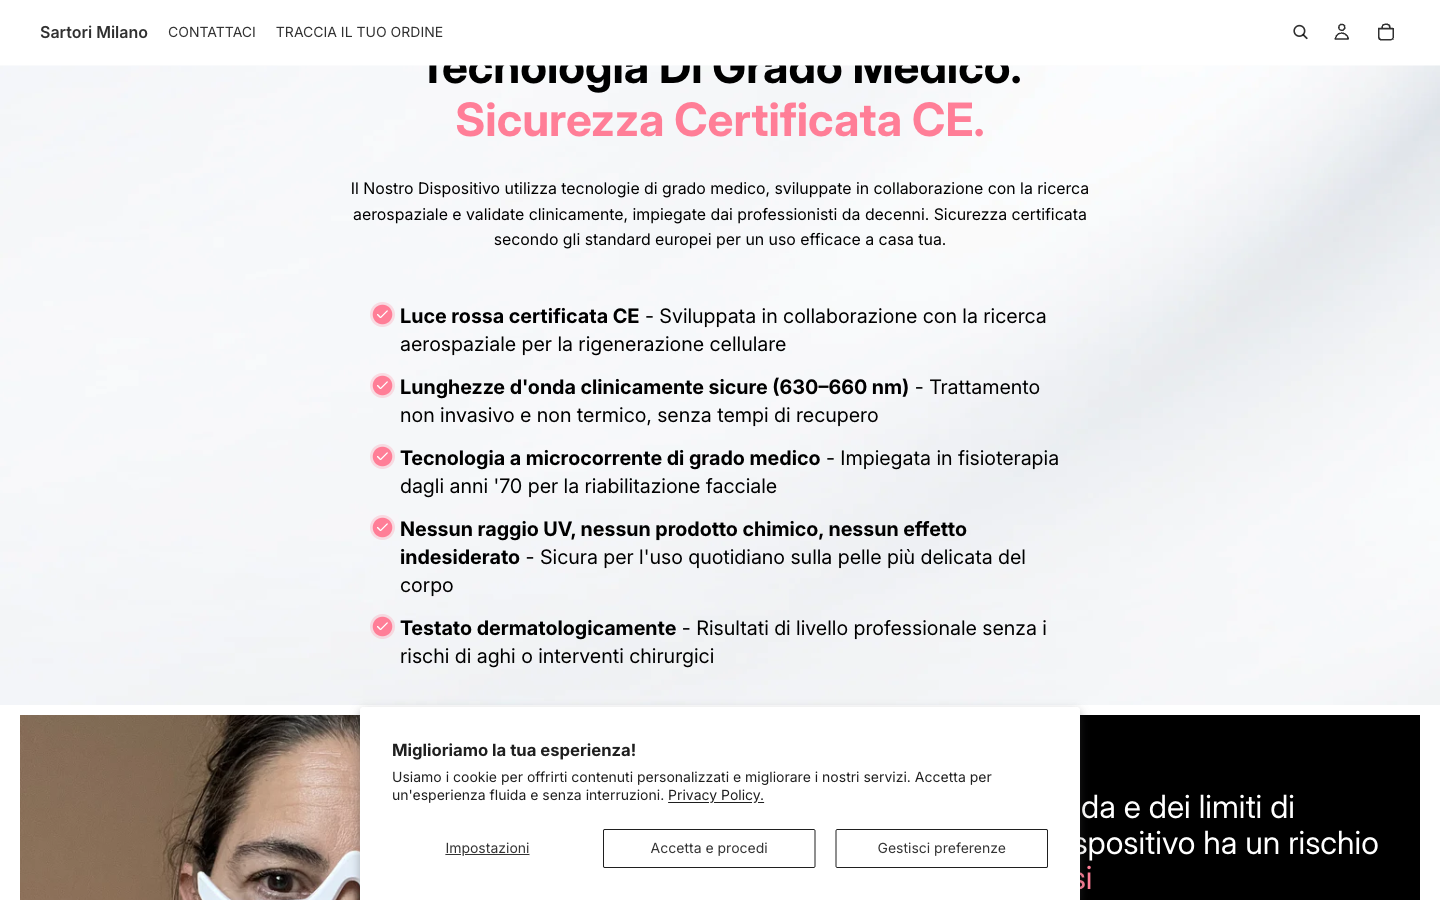
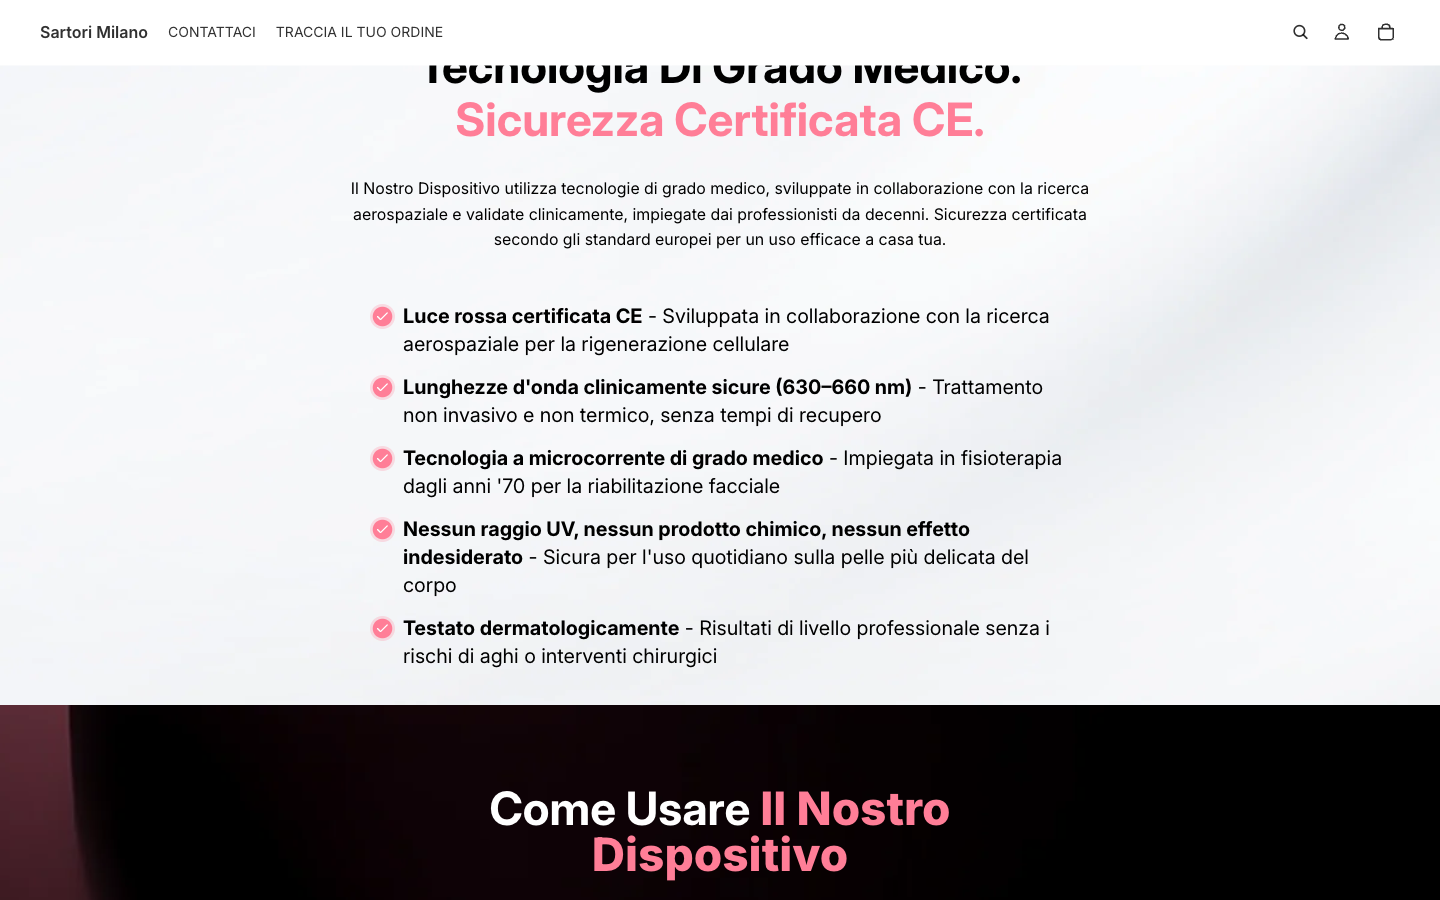
section-08-medical-grade-fda: fix bullet-wrapping regression
Converted li from background-image+padding-left to display:flex layout.
Added .bq-mfda__icon (flex-shrink:0, 25px) and .bq-mfda__text (flex:1)
spans so strong label + dash + description stay in the same inline flow
even when Italian label text wraps across two lines.

Changed region(s): [[0.0, 0.7778, 1.0, 1.0], [0.25, 0.4978, 0.75, 0.7467], [0.25, 0.3422, 0.75, 0.4667]]

diff --git a/assets/bq-medical-fda.css b/assets/bq-medical-fda.css
@@ -52,18 +52,36 @@
 }
 
 .bq-mfda__list ul li {
-  position: relative;
+  display: flex;
+  align-items: flex-start;
   list-style: none !important;
-  padding-left: 30px !important;
+  padding-left: 0 !important;
   margin-bottom: 15px;
   font-size: 20px;
   font-family: var(--bq-font-sans, sans-serif);
   color: #000;
+  line-height: 1.4;
+}
+
+.bq-mfda__icon {
+  flex-shrink: 0;
+  display: inline-block;
+  width: 25px;
+  height: 25px;
+  margin-right: 8px;
+  margin-top: 2px;
   background-image: url(//botaniqueparis.com/cdn/shop/files/Group_48095911.svg?v=1760621385);
   background-repeat: no-repeat;
   background-size: 25px;
-  background-position: left top;
-  line-height: 1.4;
+}
+
+.bq-mfda__text {
+  flex: 1;
+  min-width: 0;
+}
+
+.bq-mfda__text strong {
+  font-weight: 700;
 }
 
 @media (max-width: 749px) {
